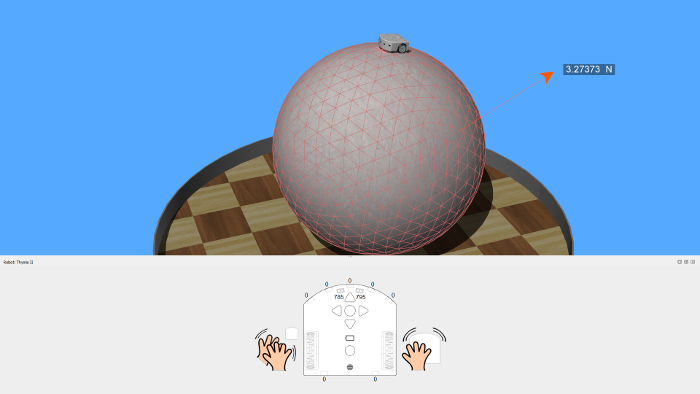
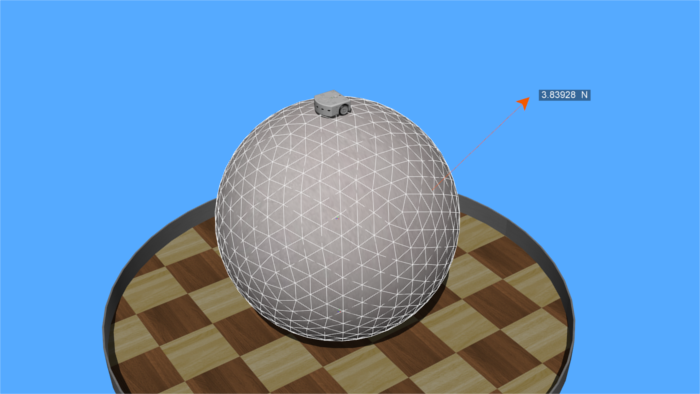
Better screen shots

diff --git a/guide/using-the-thymio-ii-robot.md b/guide/using-the-thymio-ii-robot.md
@@ -65,7 +65,7 @@ The calibration was performed using a regular A4 white paper.
 ### Samples
 
 Various examples of the possible behaviors of the Thymio II are located here: "WEBOTS\_HOME/projects/robots/mobsya/thymio/worlds".
-The various accessible worlds are described bellow.
+The various accessible worlds are described below.
 
 #### Connect Aseba to the Thymio II model
 
